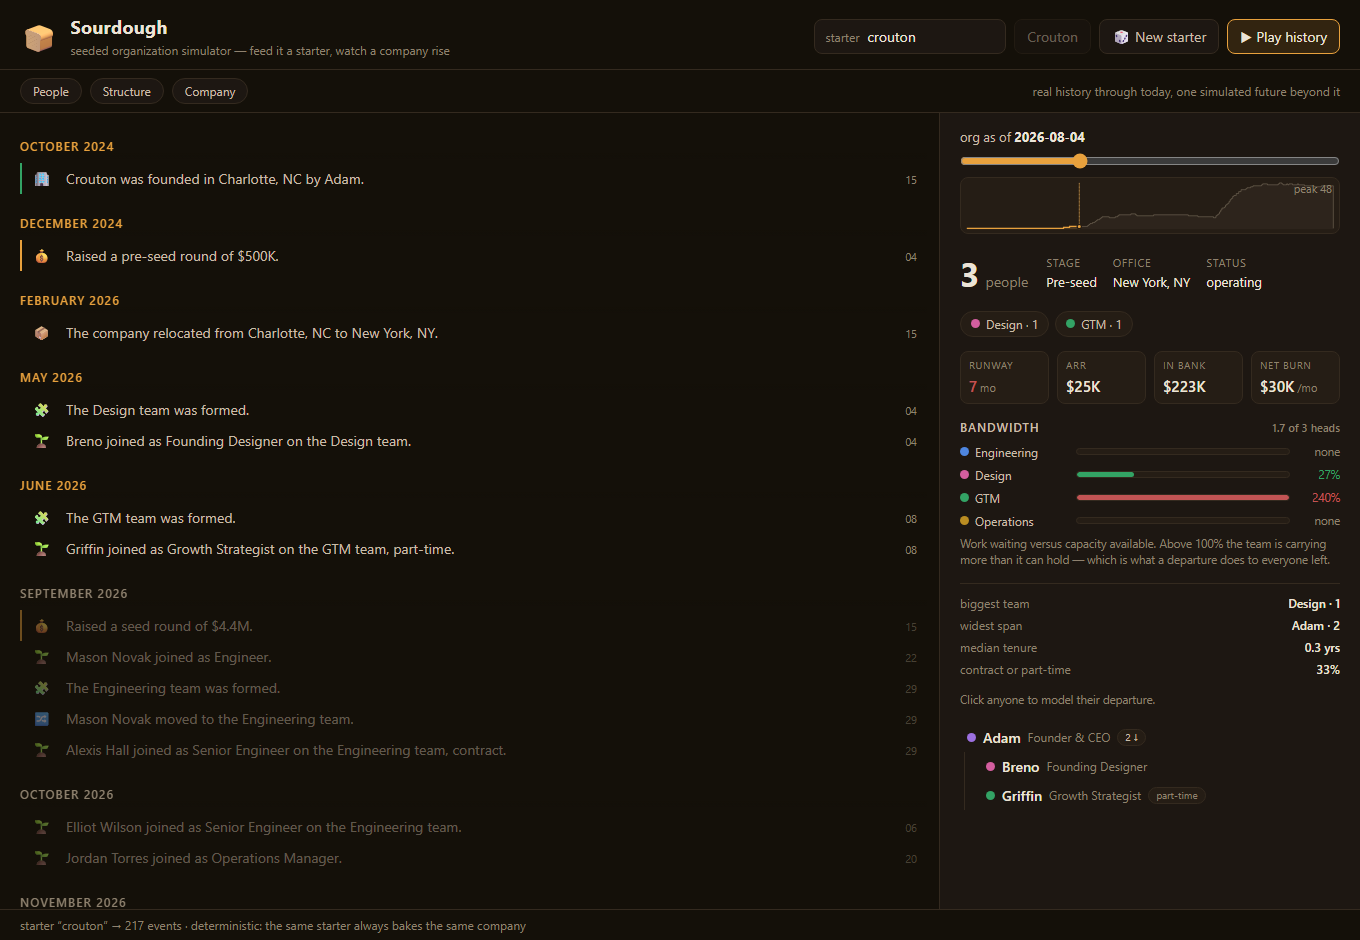
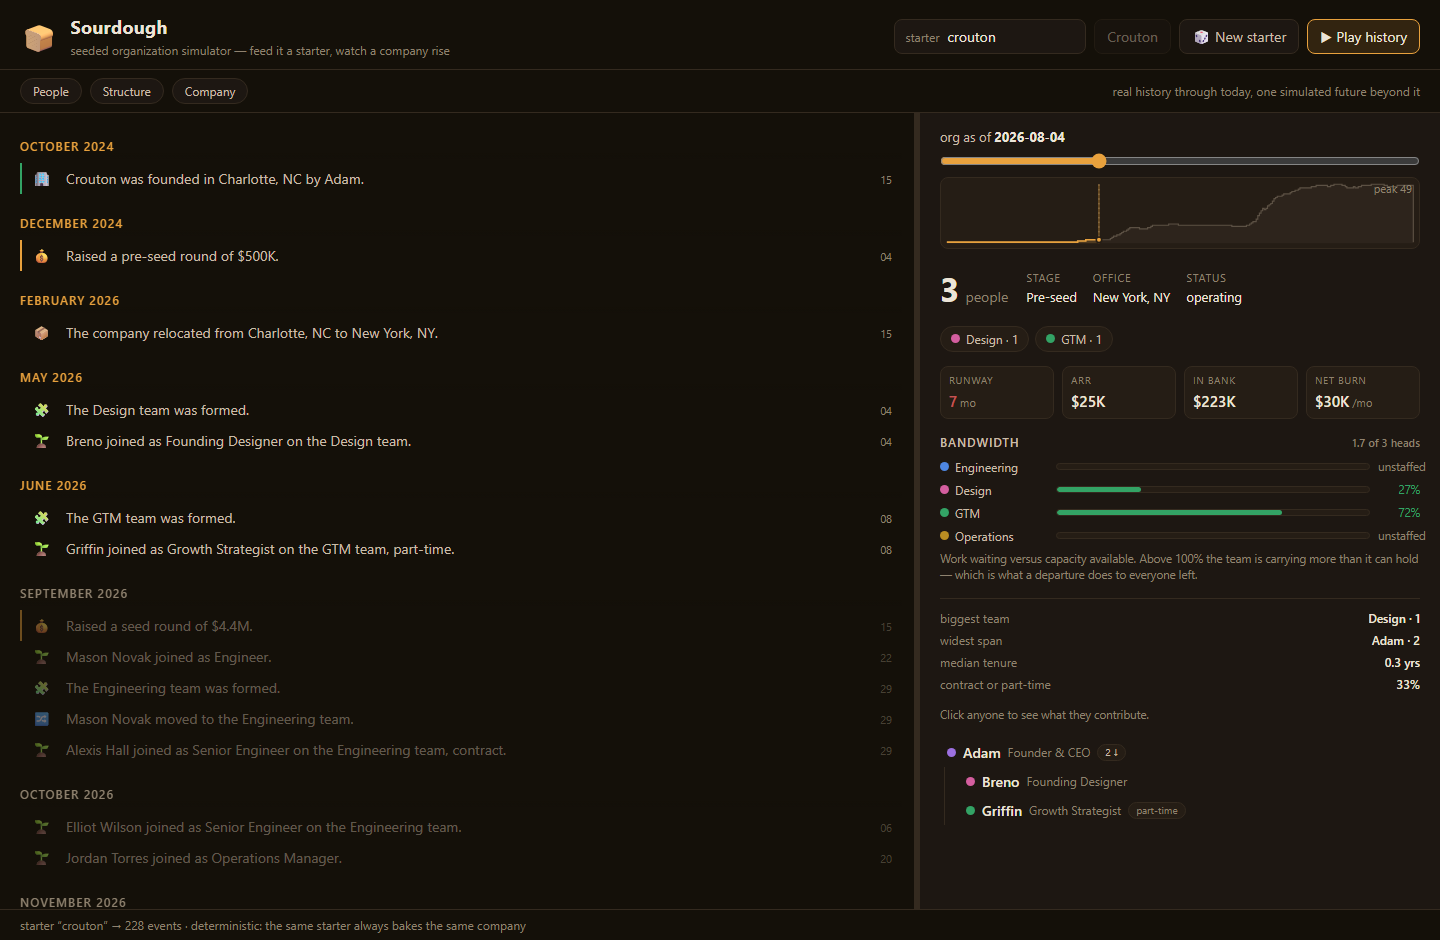
Update docs for the metrics layer and widen rule 7 to cover it
CLAUDE.md rule 7 governed only simulate.ts constants, which left every
constant in DEFAULT_MODEL sourced by nothing; adds the two-reducers rule
and the reshuffle warning. SPEC now states the fold agreement precisely
(same order, same grid, measured) rather than asserting it. Regenerates
the screenshot with the resizable layout and metrics panel.

diff --git a/CLAUDE.md b/CLAUDE.md
@@ -17,6 +17,7 @@ the simulated work system with knowable ground truth.
 | `src/engine/project.ts` | The one reducer; `project(events, until)` = org as of a date |
 | `src/engine/validate.ts` | Realism invariants (singleton execs, acyclic chains, …) |
 | `src/engine/metrics.ts` | Derived capacity + finances; `stepFinance` is the second reducer |
+| `src/engine/mix.ts` | Stage hiring mix — shared by the simulator and the demand model |
 | `src/engine/describe.ts` | Reference English per event (shared web + CLI) |
 | `src/app/` | React UI: `App` (state) → `Timeline`, `OrgPanel`, `Sparkline` |
 | `scripts/peek.ts` | Terminal timeline viewer |
@@ -51,14 +52,23 @@ npm run build        # tsc --noEmit && vite build
    repo's explainability is a feature; today the runtime deps are react and react-dom, full stop.
 6. **Comments state constraints only** (why something must be so), never narration of what
    code does. Match the existing density.
-7. **Calibration constants** in `simulate.ts` trace to `docs/research/org-realism.md`; if
-   you tune one, keep the trail (update the comment) and re-run the outcome-spread test.
+7. **Calibration constants** in `simulate.ts` (stage machine) *and* `metrics.ts`
+   (`DEFAULT_MODEL` — salaries, ramp, management drag, revenue, churn) trace to
+   `docs/research/org-realism.md`; if you tune one, keep the trail (update the comment) and
+   re-run the calibration suite. Changing anything the simulator makes decisions on —
+   runway, capital, the hiring floor — reshuffles every seed, so re-sweep rather than
+   comparing two runs.
+8. **Two reducers, both shared.** `applyEvent` folds events into org state; `stepFinance` +
+   `applyFinanceEvent` fold them into the books. The simulator and the UI must both advance
+   the books through the same pair, in the same order (events first, then the week's step),
+   or the panel starts disagreeing with the generator's own decisions.
 
 ## Data flow (hold this in your head; it's the whole app)
 
 ```
-seed → simulate(config) → OrgEvent[] → project(events, asOf) → OrgState → tree/stats
-                              └→ headcountSeries / describe() → sparkline / timeline
+seed → simulate(config) → OrgEvent[] → project(events, asOf)     → OrgState → tree/stats
+                              ├→ financeSeries(events)[asOf]     → capital/runway/bandwidth
+                              └→ headcountSeries / describe()    → sparkline / timeline
 ```
 
 UI state is exactly: `seedInput`, `asOf`, `playing`, `hidden` (filter set). Everything else

diff --git a/docs/SPEC.md b/docs/SPEC.md
@@ -114,8 +114,11 @@ derives two more layers — **neither of which adds an event type**:
 
 `stepFinance` is a **second reducer**, and it obeys the same rule as `applyEvent`:
 the simulator advances the books with it each tick, and the UI folds the log with
-it via `financeSeries`. They cannot disagree, which is why the simulator can make
-life-or-death decisions on numbers the panel renders.
+it via `financeSeries`. Both apply a week's events *first* and close the books
+*after*, on the same weekly grid — measured at zero divergence across 19,000+
+company-weeks, which is why the simulator can make life-or-death decisions on the
+numbers the panel renders. (They were ~$97K apart before the ordering was aligned;
+"same reducer" is not the same claim as "same call order".)
 
 That coupling is load-bearing. Insolvency — not a timer — is what ends a funded
 company, so a team that hires hard genuinely dies sooner. Conversely a company
